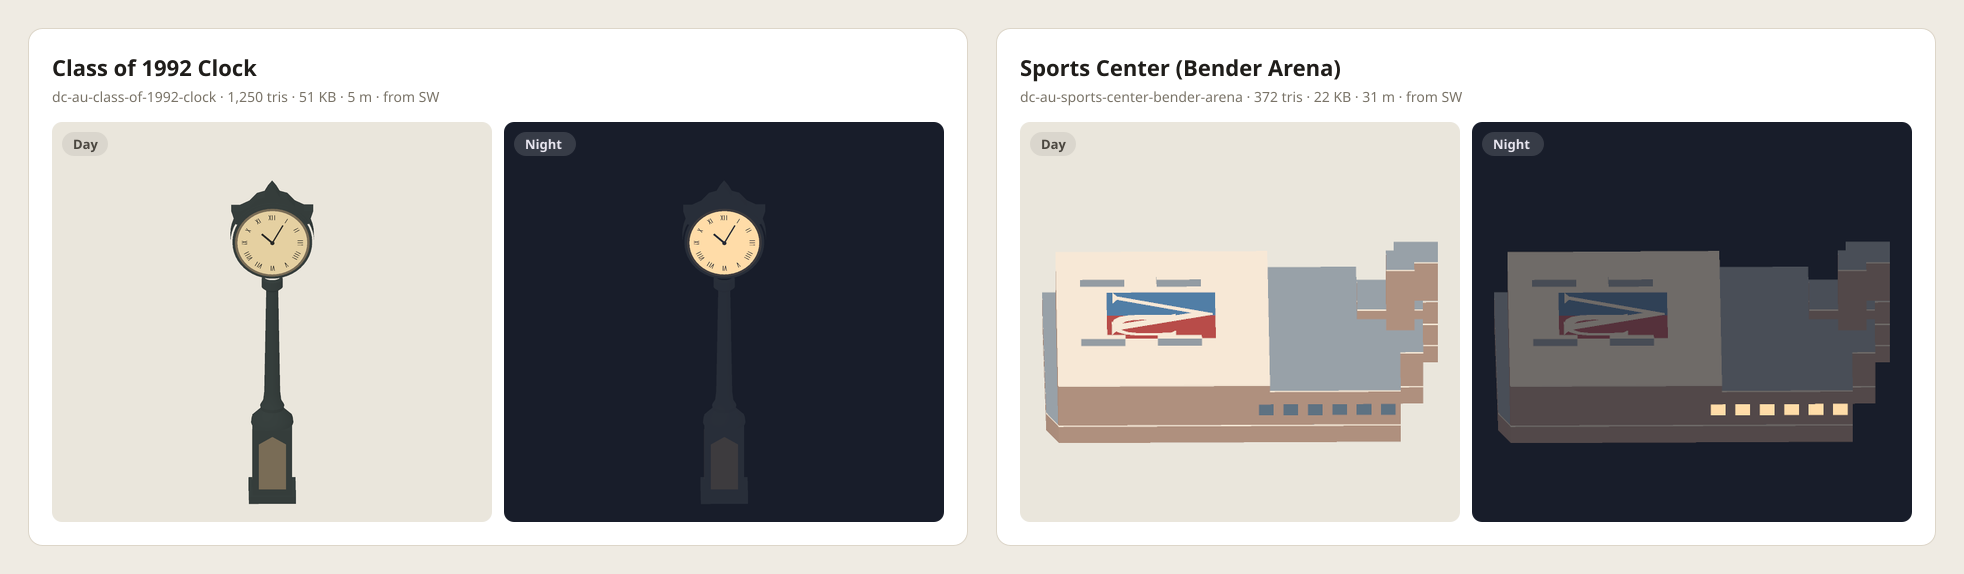
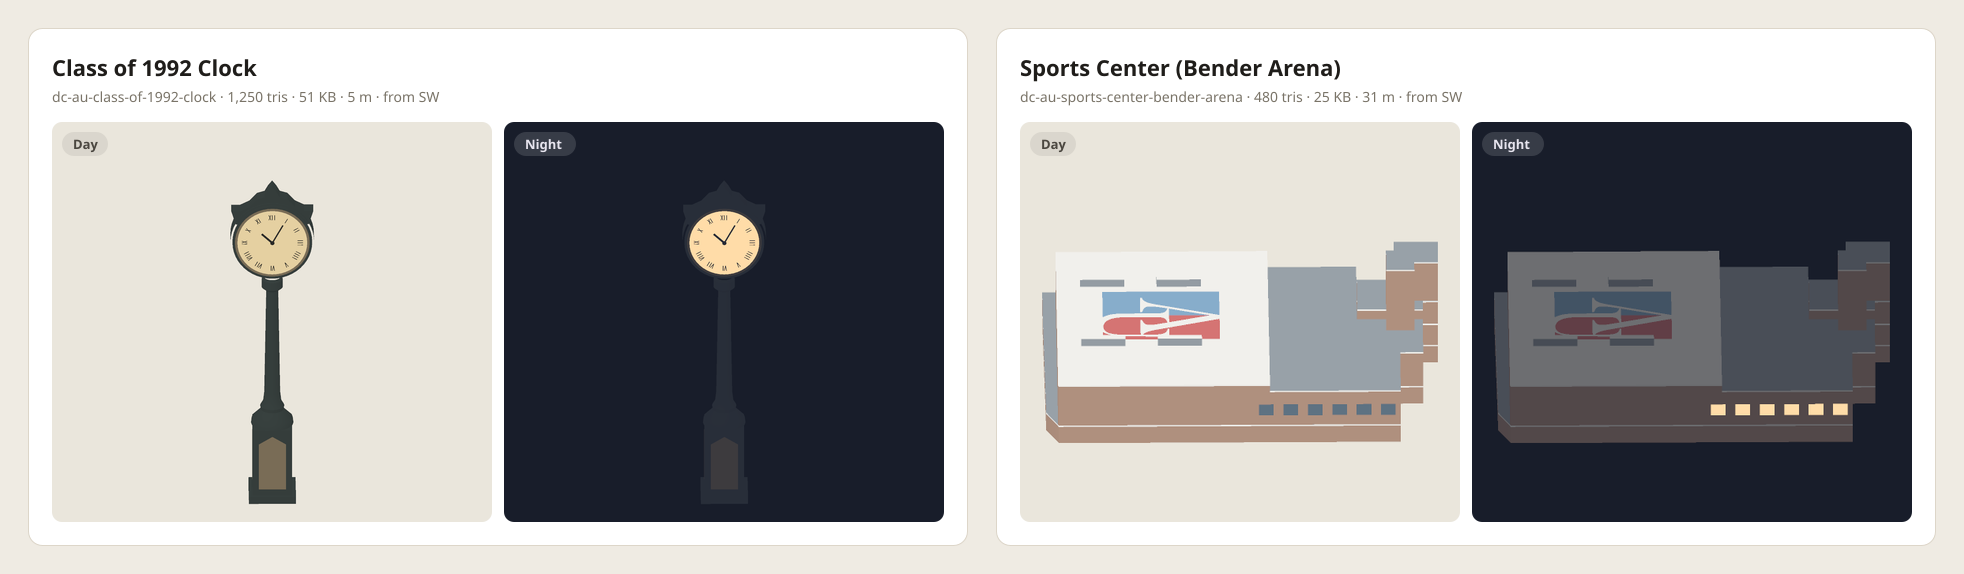
Match the interlocking AU roof mark on Bender Arena

Changed region(s): [[0.7765, 0.5035, 0.8697, 0.5923], [0.5591, 0.5035, 0.6212, 0.5923], [0.6212, 0.1481, 0.6522, 0.1777]]

diff --git a/generators/dc-au-sports-center-bender-arena.ts b/generators/dc-au-sports-center-bender-arena.ts
@@ -16,6 +16,7 @@
  * Placement, paint colors and facade openings are approximate.
  * No openly licensed current close-range exterior photographs established.
  */
+import { Shape } from 'three'
 import { Part } from './mesh'
 import { PALETTE, finish, type Swatch } from './palette'
 import { ccw, capRing, flatShape, outward, prism, rect, finishGlb, writeModel, type XY } from './sea-tacoma-union-station'
@@ -55,11 +56,11 @@ export class SportsShell {
     }
   }
 
-  async save(id: string, title: string, wallColor: number, accent = finish('photovoltaic', 0x586c80, 0.4), detail: Swatch = PALETTE.entrance) {
+  async save(id: string, title: string, wallColor: number, accent = finish('photovoltaic', 0x586c80, 0.4), detail: Swatch = PALETTE.entrance, trim: Swatch = PALETTE.trim) {
     await writeModel(id, finishGlb(title, [
       { part: this.wall, material: finish('campus-masonry', wallColor) },
       { part: this.roof, material: PALETTE.roof },
-      { part: this.trim, material: PALETTE.trim },
+      { part: this.trim, material: trim },
       { part: this.glazing, material: PALETTE.window },
       { part: this.accent, material: accent },
       { part: this.detail, material: detail },
@@ -105,21 +106,72 @@ if (import.meta.main) {
 
   // Paint the mark between the surveyed rooftop housings. Its lettering runs
   // along the long axis of the arena, readable from the campus's west side.
-  const side = 28
-  const paint = (part: Part, contour: XY[], z: number) => {
-    const plan: XY[] = contour.map(([u,v]) => [-16 + (v/100-.5)*side, 2 - (u/100-.5)*side])
-    capRing(part, ccw(plan), z)
+  // Draw the colored fields of the supplied university mark on white paint.
+  // Their boundaries define both interlocking letters, including the shared
+  // crossbar, the curved serifs, and the open bowl at the lower edge.
+  // Artboard coordinates run right and down from the top left of the paint.
+  const metresPerUnit = 28 / 826
+  const paint = (part: Part, shape: Shape) => {
+    const ring: XY[] = shape.getPoints(10).map(({x, y}) => [
+      -16 + (429 - y) * metresPerUnit,
+      2 + (413 - x) * metresPerUnit,
+    ])
+    capRing(part, ccw(ring), 15.85)
   }
-  paint(arena.trim, rect(0,0,100,100), 15.83)
-  paint(arena.accent, rect(1.7,1.7,50,98.3), 15.85)
-  paint(arena.detail, rect(50,1.7,98.3,98.3), 15.85)
-  // Tapered serif A and curved U share the field of the university's square device.
-  paint(arena.trim, [[2,7],[10,11],[46,96],[49,96],[81,11],[91,6],
-    [63,6],[69,10],[45,77],[17,11],[25,7]], 15.88)
-  paint(arena.trim, [[47,63],[62,63],[59,59],[59,34],[60,25],[63,18],
-    [69,14],[75,13],[81,15],[85,20],[87,28],[87,58],[82,63],[96,63],
-    [92,58],[92,27],[90,18],[85,11],[78,7],[68,6],[59,8],[53,13],
-    [50,21],[49,30],[49,59]], 15.89)
+  // The blue field wraps the left foot of the A and the falling stem of the U.
+  paint(arena.accent, new Shape()
+    .moveTo(0, 0)
+    .lineTo(410, 0)
+    .lineTo(232, 443)
+    .bezierCurveTo(201, 522, 175, 559, 110, 568)
+    .lineTo(110, 582)
+    .lineTo(355, 582)
+    .lineTo(355, 568)
+    .bezierCurveTo(272, 556, 248, 542, 258, 487)
+    .bezierCurveTo(262, 462, 276, 419, 290, 382)
+    .bezierCurveTo(364, 393, 378, 409, 378, 482)
+    .lineTo(378, 684)
+    .bezierCurveTo(377, 763, 390, 821, 444, 858)
+    .lineTo(0, 858))
+  // The split inside the A continues the vertical color division.
+  paint(arena.accent, new Shape()
+    .moveTo(414, 69)
+    .lineTo(414, 371)
+    .lineTo(295, 371))
+  paint(arena.detail, new Shape()
+    .moveTo(414, 69)
+    .lineTo(532, 371)
+    .lineTo(414, 371))
+  // The upper red field leaves a swept serif between the A and the right stem.
+  paint(arena.detail, new Shape()
+    .moveTo(475, 0)
+    .lineTo(826, 0)
+    .lineTo(826, 371)
+    .lineTo(643, 371)
+    .lineTo(643, 382)
+    .bezierCurveTo(732, 390, 747, 423, 748, 507)
+    .lineTo(748, 564)
+    .bezierCurveTo(708, 556, 686, 525, 664, 475))
+  // The inner red bowl defines the curved bottom of the U.
+  paint(arena.detail, new Shape()
+    .moveTo(537, 383)
+    .lineTo(569, 468)
+    .bezierCurveTo(592, 537, 571, 556, 493, 569)
+    .lineTo(493, 582)
+    .lineTo(748, 582)
+    .lineTo(748, 679)
+    .bezierCurveTo(747, 792, 718, 855, 611, 855)
+    .bezierCurveTo(502, 855, 441, 801, 441, 687)
+    .lineTo(441, 486)
+    .bezierCurveTo(441, 410, 452, 397, 537, 383))
+  // The lower right red corner shapes the outside of the U.
+  paint(arena.detail, new Shape()
+    .moveTo(826, 387)
+    .lineTo(826, 858)
+    .lineTo(699, 858)
+    .bezierCurveTo(754, 818, 772, 761, 773, 683)
+    .lineTo(778, 500)
+    .bezierCurveTo(780, 427, 790, 403, 826, 387))
   for (const y of [-15.8, 19]) {
     prism(arena.roof, arena.trim, rect(-36, y, -25, y + 2.2), 15.8, 17.75)
     prism(arena.roof, arena.trim, rect(-17, y, -6, y + 2.2), 15.8, 17.75)
@@ -128,5 +180,5 @@ if (import.meta.main) {
   arena.bays(footprint[11], footprint[12], 4.2, 8.0, 5.8, 0.57)
   arena.bays(footprint[8], footprint[9], 3.0, 8.8, 4.7, 0.74)
   await arena.save('dc-au-sports-center-bender-arena', 'Sports Center (Bender Arena)', 0xba9986,
-    finish('au-roof-blue', 0x5482ab), finish('au-roof-red', 0xbe4e4b))
+    finish('au-roof-blue', 0x8bb3d2), finish('au-roof-red', 0xdc7877), finish('arena-roof-white', 0xf9f8f4))
 }

diff --git a/review/american-university/README.md b/review/american-university/README.md
@@ -13,7 +13,7 @@ The six building sheets show the models by day and by night on ground derived fr
 
 ## Bender Arena roof and Bender Library clock
 
-The arena depicts the red, white and blue AU monogram on the main deck before the rooftop solar installation. The mark’s scale and paint colors are approximate. The Class of 1992 Clock stands in a planted bed on the library entrance axis. Its estimated height of 4.5 m follows a localized return in the 2022 DC surface survey. [University clock photograph](https://commons.wikimedia.org/wiki/File:Clock_of_American_University.jpg) · [University monogram](https://commons.wikimedia.org/wiki/File:American_University_logo.svg)
+The arena depicts the red, white and blue AU monogram on the main deck before the rooftop solar installation. The white serif A and U interlock across the blue and red fields. The model uses faded paint colors and an estimated 28 m width. The Class of 1992 Clock stands in a planted bed on the library entrance axis. Its estimated height of 4.5 m follows a localized return in the 2022 DC surface survey. [University clock photograph](https://commons.wikimedia.org/wiki/File:Clock_of_American_University.jpg) · [University monogram](https://commons.wikimedia.org/wiki/File:American_University_logo.svg)
 
 ![Clock and arena by day and night](clock-and-arena.png)
 ![Overhead view of the painted AU monogram on Bender Arena](arena-roof.png)
